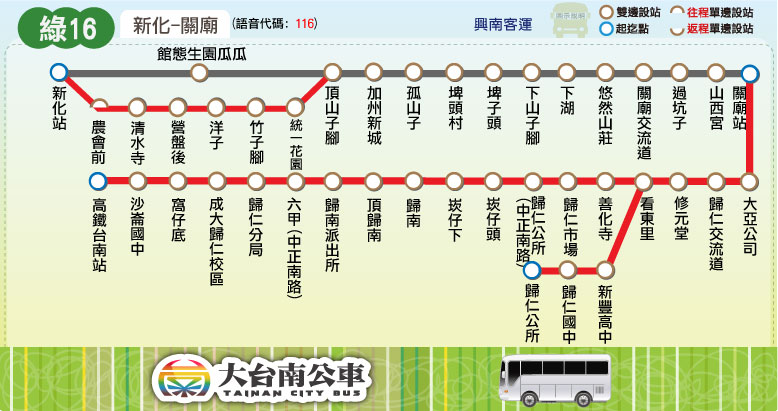
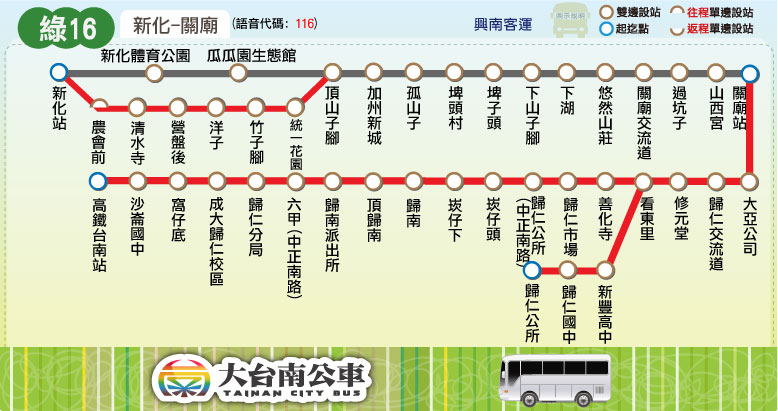
Add new stop: g16; Add news: red,r2,h62,g4,g11; Remove news: r2

Changed region(s): [[0.1234, 0.1168, 0.401, 0.2044]]

diff --git a/red/red.html b/red/red.html
@@ -17,7 +17,7 @@
 <body>
 <script type="text/javascript">
 	block_header();
-	block_route_map('因東門路二段(長榮路至東門路二段104巷)道路施工，自104年3月1日~104年3月2日，本公司紅幹線及紅1、紅2線往關廟方向暫不停靠「東門城」招呼站，請乘客就近至鄰近招呼站搭乘。');
+	block_route_map('因仁德區中山路(文德路至自由路二段)道路施工，施工期間為104年3月9日~104年3月13日，施工期間請駕駛員小心行駛；唯於104年3月9日當天本公司紅幹線、紅2及高鐵接駁車(奇美線)招呼站「仁德交流道」暫不停靠， 如施工完畢可提前停靠，請乘客就近至鄰近招呼站搭乘。');
 	block_route_info(route_interval,'興南客運','尖15離30','里程計費','http://2384.tainan.gov.tw:8080/AGPSRemoteQuery3/ajaxBus.jsp?pathId=1600&locale=zh_TW');
 	block_fare(0, null);
 	block_time_schedule('安平工業區','關廟/龍崎',L_message + '；<font color="red">「繞」</font>表示繞駛新豐高中');

diff --git a/red/red_2.html b/red/red_2.html
@@ -17,7 +17,7 @@
 <body>
 <script type="text/javascript">
 	block_header();
-	block_route_map('因東門路二段(長榮路至東門路二段104巷)道路施工，自104年3月1日~104年3月2日，本公司紅幹線及紅1、紅2線往關廟方向暫不停靠「東門城」招呼站，請乘客就近至鄰近招呼站搭乘。');
+	block_route_map('因仁德區中山路(文德路至自由路二段)道路施工，施工期間為104年3月9日~104年3月13日，施工期間請駕駛員小心行駛；唯於104年3月9日當天本公司紅幹線、紅2及高鐵接駁車(奇美線)招呼站「仁德交流道」暫不停靠， 如施工完畢可提前停靠，請乘客就近至鄰近招呼站搭乘。');
 	block_route_info(route_interval,'興南客運','','里程計費','http://2384.tainan.gov.tw:8080/AGPSRemoteQuery3/ajaxBus.jsp?pathId=1602&locale=zh_TW');
 	block_fare(0, null);
 	block_time_schedule('臺南公園(公園路)/臺南站','關廟','');

diff --git a/green/green_4.html b/green/green_4.html
@@ -17,7 +17,7 @@
 <body>
 <script type="text/javascript">
 	block_header();
-	block_route_map(null);
+	block_route_map('為配合本市善化區104.3.13-104.3.22『104年善化區低碳綠能草莓季產業文化活動』，綠4「新化-新市-陽光電城-善化」線於原班車行駛時段經台1線小新營招呼站與目加溜灣大道統一夢巴里間設一臨時招呼站。詳情請見<a href="http://snnew.sg1010.myweb.hinet.net/1040306-1.pdf" target="_blank">附件</a>。');
 	block_route_info(route_interval,'興南客運','','里程計費','http://2384.tainan.gov.tw:8080/AGPSRemoteQuery3/ajaxBus.jsp?pathId=1104&locale=zh_TW');
 	block_fare(0, null);
 	block_time_schedule('新化','善化轉運站','');

diff --git a/hsr_shuttle/hsr_shuttle_h62.html b/hsr_shuttle/hsr_shuttle_h62.html
@@ -17,7 +17,7 @@
 <body>
 <script type="text/javascript">
 	block_header();
-	block_route_map(null);
+	block_route_map('因仁德區中山路(文德路至自由路二段)道路施工，施工期間為104年3月9日~104年3月13日，施工期間請駕駛員小心行駛；唯於104年3月9日當天本公司紅幹線、紅2及高鐵接駁車(奇美線)招呼站「仁德交流道」暫不停靠， 如施工完畢可提前停靠，請乘客就近至鄰近招呼站搭乘。');
 	block_route_info(route_interval,'興南客運','15~30分一班','免費','http://2384.tainan.gov.tw:8080/AGPSRemoteQuery3/ajaxBus.jsp?pathId=10265&locale=zh_TW');
 	document.write('<div id="wrapper3">\
 	<a name="fare"></a>\

diff --git a/green/green_11.html b/green/green_11.html
@@ -17,7 +17,7 @@
 <body>
 <script type="text/javascript">
 	block_header();
-	block_route_map(null);
+	block_route_map('為配合本市善化區104.3.13-104.3.22『104年善化區低碳綠能草莓季產業文化活動』，綠11「新化-山上-善化」線於原班車行駛時段經台1線可果美招呼站與小新營招呼站間設一臨時招呼站。詳情請見<a href="http://snnew.sg1010.myweb.hinet.net/1040306-1.pdf" target="_blank">附件</a>。');
 	block_route_info(route_interval,'興南客運','','里程計費','http://2384.tainan.gov.tw:8080/AGPSRemoteQuery3/ajaxBus.jsp?pathId=1111&locale=zh_TW');
 	block_fare(0, null);
 	block_time_schedule('新化','善化轉運站',W_message);

diff --git a/route/fare_and_time/green_16.js b/route/fare_and_time/green_16.js
@@ -1,6 +1,6 @@
 green_16_interval_name = ["新化","統一<br />花園","埤子頭","關廟","新豐","歸仁","六甲","高鐵<br />臺南站"];
 green_16_interval_stop = [
-["新化站","瓜瓜園生態館","農會前","清水寺","營盤後","洋子","竹子腳"], // 新化
+["新化站","新化體育公園","瓜瓜園生態館","農會前","清水寺","營盤後","洋子","竹子腳"], // 新化
 ["統一花園"], // 統一花園
 ["頂山子腳","加州新城","孤山子","埤頭里","埤子頭","下山子腳"], // 埤子頭
 ["下湖","悠然山莊","關廟交流道","過坑子","山西宮","關廟站","大亞公司"], // 關廟

diff --git a/red/red_1.html b/red/red_1.html
@@ -17,7 +17,7 @@
 <body>
 <script type="text/javascript">
 	block_header();
-	block_route_map('因東門路二段(長榮路至東門路二段104巷)道路施工，自104年3月1日~104年3月2日，本公司紅幹線及紅1、紅2線往關廟方向暫不停靠「東門城」招呼站，請乘客就近至鄰近招呼站搭乘。');
+	block_route_map(null);
 	block_route_info(route_interval,'興南客運','','里程計費','http://2384.tainan.gov.tw:8080/AGPSRemoteQuery3/ajaxBus.jsp?pathId=1601&locale=zh_TW');
 	block_fare(0, null);
 	block_time_schedule('臺南公園(公園路)','關廟','');
